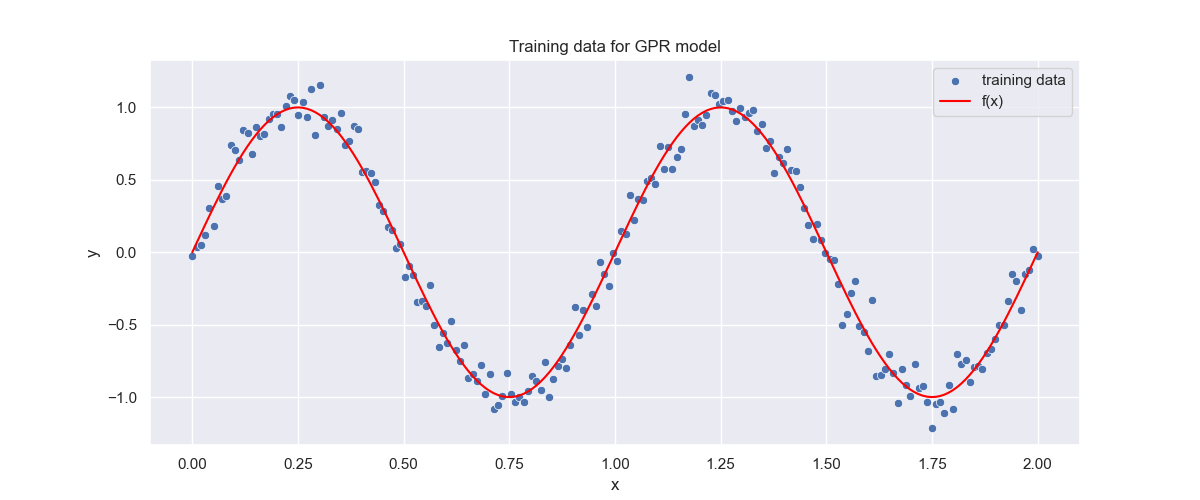
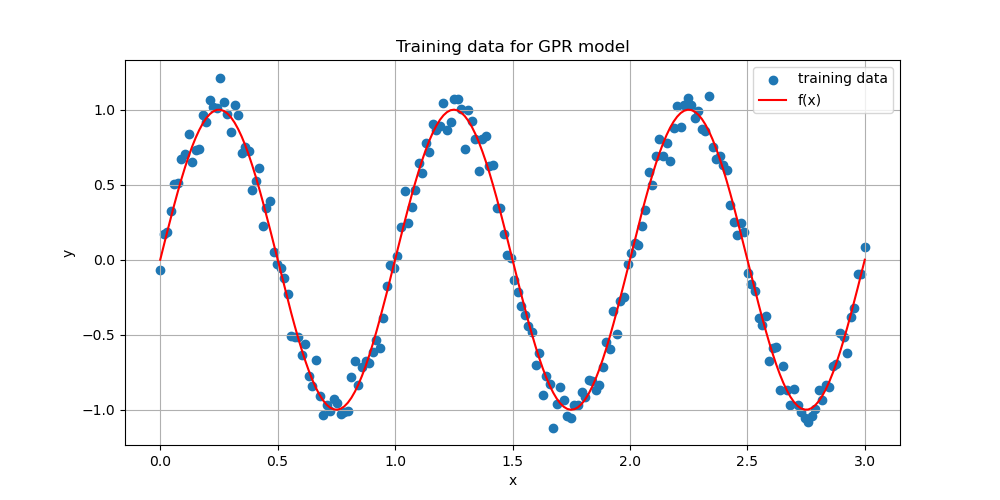
commit

diff --git a/Q1.py b/Q1.py
@@ -1,91 +1,82 @@
 ### Import useful packages
 import matplotlib.pyplot as plt 
 import numpy as np 
-import pandas as pd 
-import seaborn as sns; sns.set()
 from sklearn.gaussian_process import GaussianProcessRegressor
 from sklearn.gaussian_process.kernels import RBF, ConstantKernel
 
-###
-### This section of the code generates the training data for fitting the Gaussian Process Regression model. 
-###
-x_end = 2                    ### End point of the training set interval 
-n_train = 200                ### Number of extracted training set data points 
-x_n = np.linspace(start = 0, stop = x_end, num = n_train)       ### Generating the actual data points 
+### Include a random seed for reproducibility 
+np.random.seed(13)
 
-### Define a simple function f(x)
+### ==============================================================================================================
+### Generate Training Data (Flowchart: "Reference Data")
+### ==============================================================================================================
+
+### Code to generate the x locations in the training data 
+x_end = 3                                                                   ### End point of the training set interval 
+n_train = 200                                                               ### Number of extracted training set datapoints 
+x_n = np.linspace(start = 0, stop = x_end, num = n_train)                   ### Generating the training set datapoints
+
+### Define a simple function f(x) and store the results 
 def f(x_n):
-    f = np.sin((2 * np.pi) * x_n)        ### f(x) = sin(2πx)
-    return (f)
-
-### Store results in variable f_x
-f_x = f(x_n)
+    f = np.sin((2 * np.pi) * x_n)                                           ### f(x) = sin(2πx)
+    return (f) 
+f_x = f(x_n)                                                                ### Store the results in variable f_x
 
 ### Adding noise to the functional evaluations 
-sigma_noise = 0.1           ### Sigma noise is the standard deviation of the normal distribution from which the random numbers are sampled
-epsilon_n = np.random.normal(loc = 0, scale = sigma_noise, size = n_train)   ### Adding the noise to each training datapoint 
-y_n = f_x + epsilon_n       ### y values of the training set is now the function + error in the training dataset
+sigma_noise = 0.1                                                           ### Sigma noise is the standard deviation of the normal distribution from which the random numbers are sampled
+epsilon_n = np.random.normal(loc = 0, scale = sigma_noise, size = n_train)  ### Adding the noise to each training set datapoint 
+y_n = f_x + epsilon_n                                                       ### y values of the training set is now defined as the original function + error in the training dataset
 
-### Visualise the training data with a plot
-fig, ax = plt.subplots(figsize=(12, 5))
-sns.scatterplot(x = x_n, y = y_n, label = "training data", ax = ax);            ### Scatterplot of the training set datapoints with added noise
-sns.lineplot(x = x_n, y = f_x, color = "red", label = "f(x)", ax = ax);         ### Lineplot of the noise-free function
-ax.set(title ="Training data for GPR model")
-ax.legend(loc = "upper right")
-ax.set(xlabel = "x", ylabel = "y")
+### Optional: Visualise the training data with a plot
+plt.figure(figsize = (10, 5))
+plt.scatter(x = x_n, y = y_n, label = "training data")                      ### Scatterplot of the training set datapoints with added noise
+plt.plot(x_n, f_x, color = "red", label = "f(x)")                           ### Lineplot of the noise-free function
+plt.title("Training data for GPR model")
+plt.legend(loc = "upper right")
+plt.xlabel("x")
+plt.ylabel("y")
+plt.grid()
 plt.show()
 
-###
-### This section of the code generates the test data 
-###
-n_test = n_train + 300
-x_star = np.linspace(start = 0, stop = (x_end + 1), num = n_test)
+### ==============================================================================================================
+### Build the kernel (Flowchart: "Kernel Construction")
+### ==============================================================================================================
 
-### Reshape the training and test datasets to fit the GPR
-d = 1;          ### Specifies the dimensionality of the problem, in this case 1D 
-X_n = x_n.reshape(n_train, d)
-X_star = x_star.reshape(n_test, d)
+### Build a kernel for Gaussian Process Regression
+kernel = RBF(length_scale = 1.0)
 
-###
-### This section of the code defines the type of kernel used and the Gaussion Process Regression model
-###
-def gprPrediction(l, sigma_f, sigma_n, X_n, y_n, X_star):
-    ### Define the kernel 
-    kernel = ConstantKernel(constant_value = sigma_f, constant_value_bounds = (1e-2, 1e2)) * RBF(length_scale = l, length_scale_bounds = (1e-2, 1e2))
-    ### Gaussian Process model 
-    gpr = GaussianProcessRegressor(kernel = kernel, alpha = sigma_n ** 2, n_restarts_optimizer = 10, )
-    ### Fit the Gaussian Process Regression model 
-    gpr.fit(X_n, y_n)
-    ### Make the prediction on the test set 
-    y_pred = gpr.predict(X_star)
-    return y_pred, gpr;
+gpr = GaussianProcessRegressor(
+    kernel = kernel,
+    alpha = sigma_noise ** 2,                                               ### Regularisation matches the noise variance
+    optimizer = None                                                        ### No optimisation of the hyperparameters for simplicity
+)
 
-### Set hyperparameters for the kernel function 
-l_init = 1
-sigma_f_init = 3
-sigma_n = 1
+### ==============================================================================================================
+### Model Training (Flowchart: "Model Training")
+### ==============================================================================================================
 
-y_pred, gpr = gprPrediction(l_init, sigma_f_init, sigma_n, X_n, y_n, X_star)
+### Fit the Gaussian Process Regression model to the training data 
+gpr.fit(x_n.reshape(-1, 1), y_n)
 
-# Generate samples from posterior distribution. 
-y_hat_samples = gpr.sample_y(X_star, n_samples=n_test)
-# Compute the mean of the sample. 
-y_hat = np.apply_over_axes(func=np.mean, a=y_hat_samples, axes=1).squeeze()
-# Compute the standard deviation of the sample. 
-y_hat_sd = np.apply_over_axes(func=np.std, a=y_hat_samples, axes=1).squeeze()
+### ==============================================================================================================
+### Prediction (Flowchart: "Prediction")
+### ==============================================================================================================
 
-fig, ax = plt.subplots(figsize=(15, 8))
-# Plotting the training data.
-sns.scatterplot(x=x_n, y=y_n, label='training data', ax=ax);
-# Plot the functional evaluation
-sns.lineplot(x=x_star, y=f(x_star), color='red', label='f(x)', ax=ax)
-# Plot corridor. 
-ax.fill_between(x=x_star, y1=(y_hat - 2*y_hat_sd), y2=(y_hat + 2*y_hat_sd), color='green',alpha=0.3, label='Credible Interval')
-# Plot prediction. 
-sns.lineplot(x=x_star, y=y_pred, color='green', label='pred')
+### Define test locations 
+n_test = n_train + 200
+x_test = np.linspace(start = 0, stop = (x_end + 1), num = n_test)           ### Letting the test interval be bigger than the training interval helps us determine the validity of the model outside of the training data 
 
-# Labeling axes
-ax.set(title='Gaussian Process Regression')
-ax.legend(loc='lower left');
-ax.set(xlabel='x', ylabel='')
+### Predict the mean and variance at new test locations 
+y_mean, y_std = gpr.predict(x_test.reshape(-1, 1), return_std = True)     
+
+### Optional: Visualise the predicted values 
+plt.figure(figsize = (10, 5))
+plt.plot(x_n, f_x, 'r-', label = "True function $f(x)$")
+plt.scatter(x_n, y_n, color = "k", s = 20, label = "Training Data")
+plt.plot(x_test, y_mean, 'g-', label = "GPR mean prediction")
+plt.fill_between(x_test, y_mean - 2 * y_std, y_mean + 2 * y_std, color = "green", alpha = 0.2, label = "95% confidence interval")
+plt.xlabel("x")
+plt.ylabel("y")
+plt.title("Gaussian Process Regression (Simple 1D Example)")
+plt.legend()
 plt.show()
